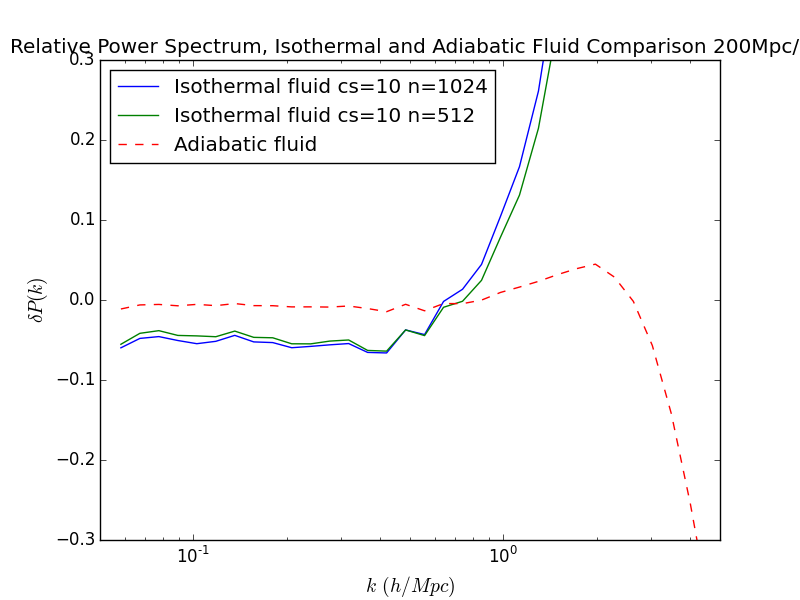
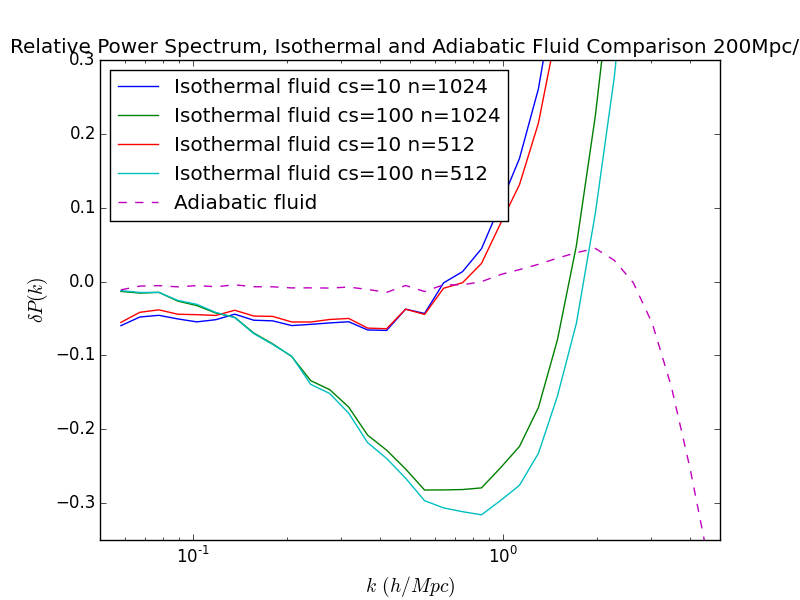
Added n=512 test for cs=100, b=200 to test resolution effects. Updated plot.

diff --git a/plots/isothermal/isothermal_fluid_low_adiabatic_normalized_particle_b200_resolution.py b/plots/isothermal/isothermal_fluid_low_adiabatic_normalized_particle_b200_resolution.py
@@ -14,6 +14,7 @@ for simtype in simtypes:
     params = [simtype,'b200','n1024','t0.005','h2','isothermal']
     filenames = [filename for filename in results if all(param in filename for param in params)]
     filenames.append('fluid_b200_n512_t0.005_h2_isothermal10.out')
+    filenames.append('fluid_b200_n512_t0.005_h2_isothermal100.out')
     filenames.append('fluid_b200_n1024_t0.005_h2_z50.out')
     base = 'particle_b200_n1024_t0.005_h2_z50.out'
     
@@ -22,7 +23,7 @@ for simtype in simtypes:
     for filename in filenames:
         if 'isothermal' in filename:
             isothermal = isothermalpattern.findall(filename)[0]
-            if int(isothermal)  == 10:
+            if int(isothermal)  in [10,100]:
                 n = npattern.findall(filename)[0]
                 kvalues, ps = np.loadtxt(result_dir+filename, unpack=True)
                 ps = (ps - ps_base)/ps_base
@@ -33,7 +34,7 @@ for simtype in simtypes:
             plt.semilogx(kvalues, ps, '--', label='Adiabatic fluid')
 
 plt.xlim([0.05,5e0])
-plt.ylim([-0.3,0.3])
+plt.ylim([-0.35,0.3])
 plt.xlabel('$k \, (h/Mpc)$', fontsize=14)
 plt.ylabel('$\delta P(k)$', fontsize=14)
 plt.title('Relative Power Spectrum, Isothermal and Adiabatic Fluid Comparison 200Mpc/h')
